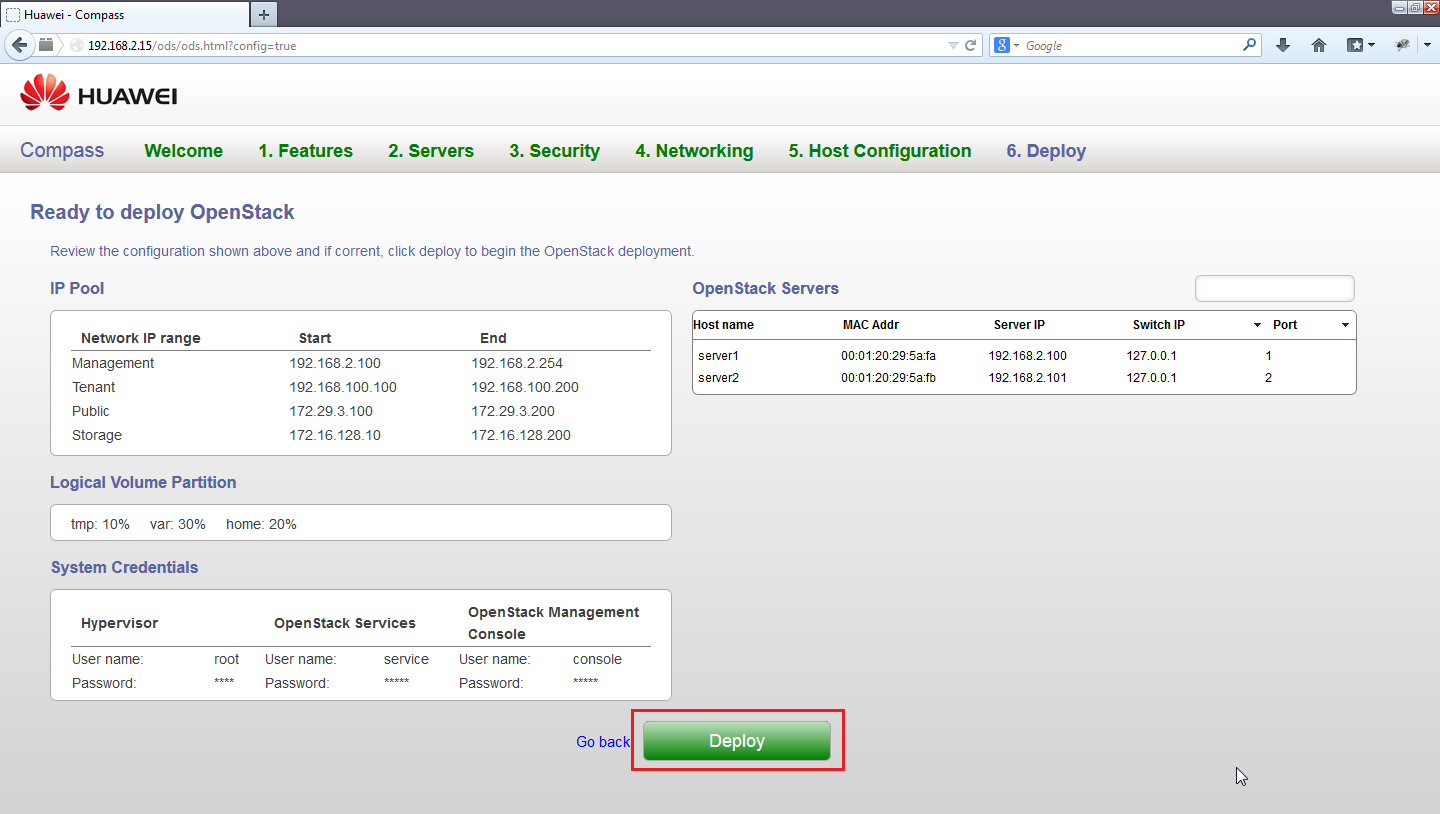
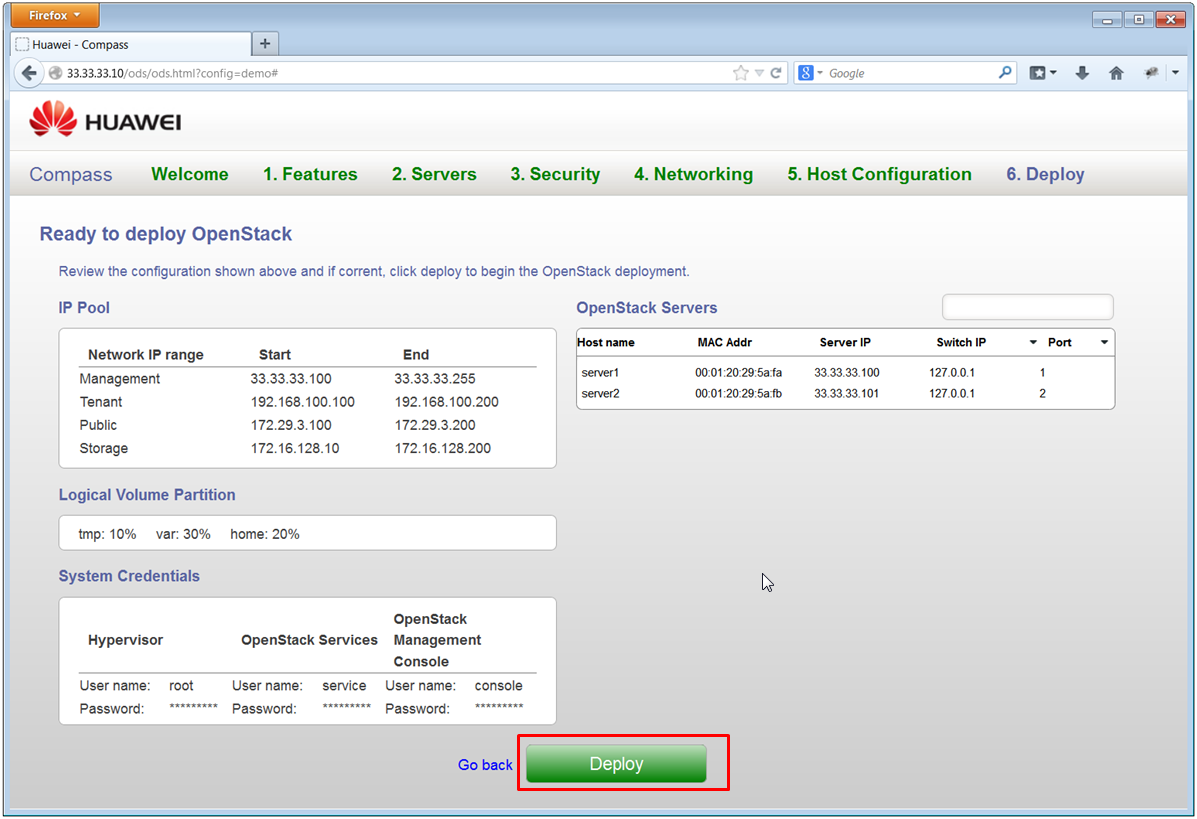
Xicheng changed the images

Changed region(s): [[0.0, 0.0, 1.0, 1.0]]

diff --git a/_includes/themes/twitter/header.html b/_includes/themes/twitter/header.html
@@ -16,7 +16,7 @@
           <li class="{% if page.title == 'Compass' %} active {% endif %}"><a href="/">Home</a></li>
           <li><a href="http://wiki.openstack.org/Compass">Wiki</a></li>
           <li class="{% if page.title == 'userguide' %} active {% endif %}"><a href="/user.html">Try Compass</a></li>
-          <li class="{% if page.title == 'developer' %} active {% endif %}"><a href="/developer.html">Become a Developer</a></li>
+          <!--<li class="{% if page.title == 'developer' %} active {% endif %}"><a href="/developer.html">Become a Developer</a></li>-->
           <li class="dropdown {% if page.title == 'Documentation' %} active {% endif %}">
             <a href="#" class="dropdown-toggle" data-toggle="dropdown">Documentation <b class="caret"></b></a>
             <ul class="dropdown-menu">

diff --git a/_includes/userguides/step1.md b/_includes/userguides/step1.md
@@ -1,9 +1,9 @@
 <h2 id="step-one">Step 1 - Run Script</h2>
 
-Once you have downloaded the Compass Golden Image zip file, extract it and execute the ”runme.bat” file. 
+Once you have downloaded the Compass Golden Image zip file, extract it and execute the ”launch.bat” file. 
 
 
-![Click runme script](/img/1_runme_click.png)
+![Click launch script](/img/1_script_click.png)
 
 During the execution, the batch file will ask you for administrator’s permission to apply changes to VirtualBox. 
 
@@ -11,10 +11,10 @@ During the execution, the batch file will ask you for administrator’s permissi
 
 ![User account permission](/img/1_account_permission.png)
 
-![runme script completed](/img/1_runme_complete.png)
+![launch script completed](/img/1_script_completed.png)
 
 The execution may take up to 5 minutes as it copies the VDI image to your VirtualBox VMs directory. Two virtual machines will be created by the batch script for OpenStack installation demo purposes. 
 
-If you go to the folder where VMs are stored, you will see we have successfully added three hosts: compass, host1 and host2.
+If you go to the folder where VMs are stored, you will see we have successfully added three hosts: compassDemo, host1 and host2.
 
-![runme script completed](/img/1_folder_after_script.png)
+![VM folder after run launch script](/img/1_folder_after_script.png)

diff --git a/_includes/userguides/step3.md b/_includes/userguides/step3.md
@@ -1,5 +1,5 @@
 <h2 id="step-three">Step 3 - Compass-Web</h2>
 
-The booting process for “compass” may take a few minutes. Once it is ready, open a browser and type in [http://192.168.2.15/ods/ods.html?config=true](http://192.168.2.15/ods/ods.html?config=true) in the address bar.
+The booting process for “compass” may take a few minutes. Once it is ready, open a browser and type in [http://33.33.33.10/ods/ods.html?config=demo](http://33.33.33.10/ods/ods.html?config=demo) in the address bar.
 
 ![Compass welcome page](/img/3_compass_welcome.png)

diff --git a/_includes/userguides/download.md b/_includes/userguides/download.md
@@ -1,4 +1,4 @@
 <h2 id="download">Download</h2>
 
   The ZIP file is available at [this link](https://s3-us-west-1.amazonaws.com/compass-golden-image/compass-golden-image.zip). Please note that the ZIP file is relatively large (~3.9GB). Its MD5 sum is b4b8730a2b4d8df06dbaa444759a7f88.
-  Extract the files on your Windows system and open the folder in Explorer. Run the `runme` script.
+  Extract the files on your Windows system and open the folder in Explorer. Run the `launch` script.

diff --git a/_includes/userguides/introduction.md b/_includes/userguides/introduction.md
@@ -1,3 +1,5 @@
 <h2 id="introduction">Introduction</h2>
 
 The Compass Golden Image and its demo environment are built in the Oracle VirtualBox. The golden image demonstrates an installation process of two hosts, one controller node and one compute node. Compass has a web wizard which will lead you to a successful installation step by step. Detailed instructions of each step are shown in the later sections.
+
+![Golden Image](/img/goldenimage.png)

diff --git a/_includes/userguides/appendix1.md b/_includes/userguides/appendix1.md
@@ -2,6 +2,8 @@
 
 If you would like to try out Compass again, you need to remove all the VirtualBox hosts and network configurations.
 
+![Power off VMs](/img/12_power_off_hosts.png)
+
 ![Remove VMs](/img/12_remove_vms.png)
 
 ![Confirm remove VMs](/img/12_confirm_remove_vms.png)
